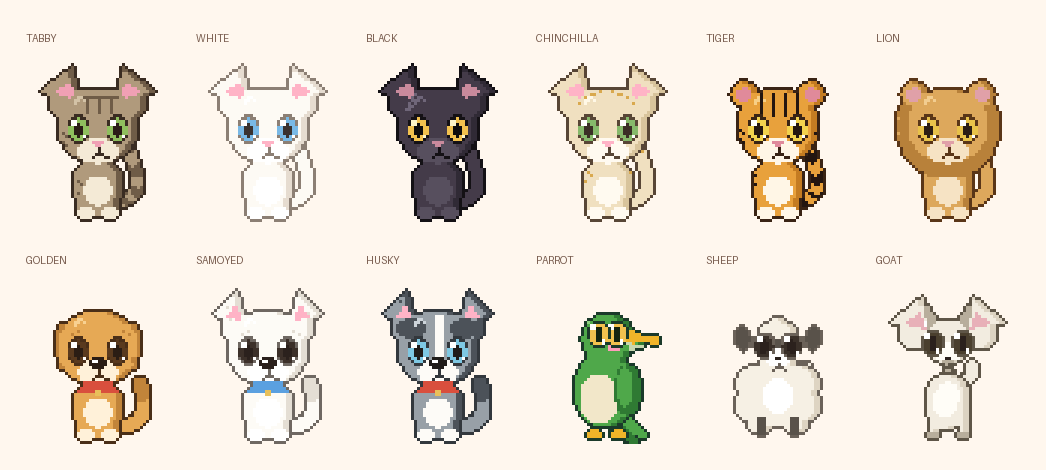
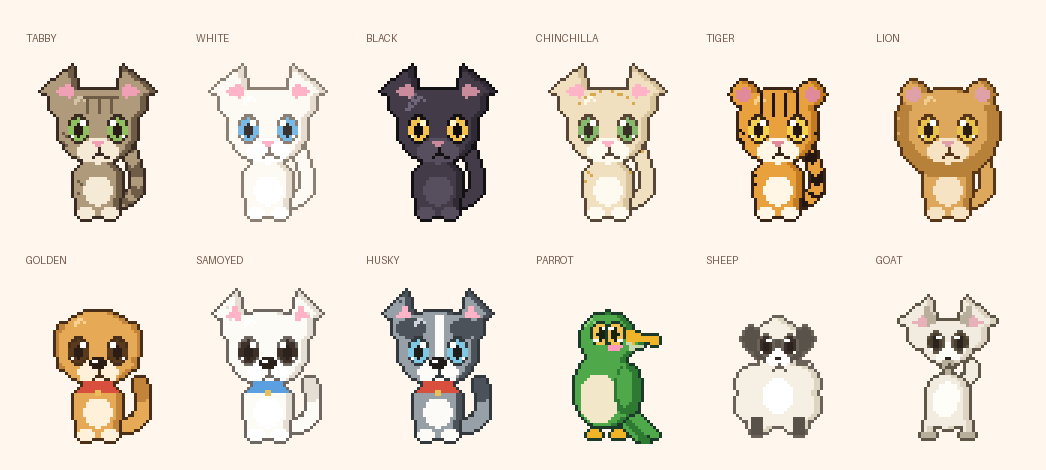
fix(dsh-pet): 眼睛贴回脸上，转身时不再自己滑动
用户反馈"眼睛的动画不匹配"，查到三处：

1. 绵羊 / 山羊 / 鹦鹉脑袋小，眼睛按原来的锚点会顶到轮廓上甚至悬空
   （侧面时最明显）。放大这三种脑袋，眼睛锚点按物种单独排版，
   近侧眼睛在转身时同比缩小，四档表情 × 三档转身现在全部落在
   脸部像素上（新增第 14 条测试卡住这个不变量）。
2. 远景眼睛/耳朵该不该隐藏，看的是被物种系数缩放过的 turn，
   结果绵羊山羊侧面还留着两只眼睛。改成只看原始 turn。
3. .dsp-eyes 有 220ms 的 transform 过渡，转身时 look 归零会让
   眼珠自己滑回中间，和已经转过去的脑袋对不上。转身/拖动时
   关掉这个过渡。

顺手把转身改得不那么急躁：指针靠近才转（62px 先转 45°，
118px 且竖直方向不偏才完全侧身），走远自动转回正面，
近处仍然保留眼珠跟随。

diff --git a/plugins/dsh-pet/client.js b/plugins/dsh-pet/client.js
@@ -231,8 +231,11 @@ function flip(rows) {
 }
 
 /** 转向的几何偏移：所有五官、耳朵、爪子按这个量往朝向一侧挪。 */
-function turnShift(turn) {
-  const t = Math.max(0, Math.min(1, turn));
+// 脑袋小的物种（鸟、羊、山羊）转身幅度要收着，不然五官会滑出脸
+const TURN_FACTOR = { cat: 1, dog: 1, bird: 0.9, sheep: 0.9, goat: 0.9 };
+
+function turnShift(turn, factor = 1) {
+  const t = Math.max(0, Math.min(1, turn)) * factor;
   return {
     t,
     face: t * 4.2, // 口鼻中心
@@ -250,9 +253,10 @@ function turnShift(turn) {
 const LAYOUT = {
   cat: { eyeY: 23, near: 30.5, far: 17.5, scale: 1 },
   dog: { eyeY: 23, near: 30.5, far: 17.5, scale: 1 },
-  bird: { eyeY: 17.2, near: 27.0, far: 21.0, scale: 0.9 },
-  sheep: { eyeY: 21.2, near: 28.6, far: 19.4, scale: 0.82 },
-  goat: { eyeY: 20.2, near: 29.0, far: 19.0, scale: 0.88 },
+  bird: { eyeY: 17.2, near: 26.4, far: 21.6, scale: 0.88 },
+  // 羊和山羊脑袋窄，眼睛得铺开一点、转身时少挪一点，才不会挤成斗鸡眼
+  sheep: { eyeY: 21.0, near: 28.0, far: 20.0, scale: 0.76, eyeNear: 1.4 },
+  goat: { eyeY: 20.0, near: 28.2, far: 19.8, scale: 0.78, eyeNear: 1.4 },
 };
 
 const layoutOf = (breed) => LAYOUT[BREEDS[breed].species] || LAYOUT.cat;
@@ -298,14 +302,15 @@ function ear(g, style, cx, cyIn, dir, scale, t) {
 function drawEars(g, breed, frame) {
   const art = BREEDS[breed];
   if (art.ear === 'none') return;
-  const T = turnShift(frame.turn);
+  const raw = Math.max(0, Math.min(1, frame.turn || 0));
+  const T = turnShift(frame.turn, TURN_FACTOR[BREEDS[breed].species] ?? 1);
   const small = art.species === 'sheep' || art.species === 'goat';
   const cy = small ? 17.4 : 14.6;
   const base = small ? 32.6 : 35.2;
   const nearCx = base + T.nearEar;
   const farCx = 48 - base + T.farEar;
   const flick = frame.ear ? 1 : 0;
-  if (T.t < 0.95) ear(g, art.ear, farCx, cy, -1, T.farScale, flick);
+  if (raw < 0.95) ear(g, art.ear, farCx, cy, -1, T.farScale, flick);
   ear(g, art.ear, nearCx, cy, 1, 1, flick);
 }
 
@@ -313,7 +318,7 @@ function drawEars(g, breed, frame) {
 
 function drawTorso(g, breed, frame) {
   const art = BREEDS[breed];
-  const T = turnShift(frame.turn);
+  const T = turnShift(frame.turn, TURN_FACTOR[BREEDS[breed].species] ?? 1);
   const cx = 24 + T.body;
   const slim = T.t * 1.4;
   const bob = frame.breath ? -1 : 0;
@@ -366,16 +371,16 @@ function drawTorso(g, breed, frame) {
 
 function drawHead(g, breed, frame) {
   const art = BREEDS[breed];
-  const T = turnShift(frame.turn);
+  const T = turnShift(frame.turn, TURN_FACTOR[BREEDS[breed].species] ?? 1);
   const bob = frame.breath ? -1 : 0;
   const cx = 24 + T.t * 1.2;
 
   if (art.species === 'bird') {
-    ellipse(g, cx + T.t * 1.2, 19 + bob, 8.6, 8.4, 'f');
+    ellipse(g, cx + T.t * 1.2, 19 + bob, 9.2, 8.6, 'f');
     return;
   }
   if (art.species === 'sheep') {
-    ellipse(g, cx, 21.0 + bob, 6.6, 6.2, 'n');
+    ellipse(g, cx, 21.0 + bob, 9.0, 6.9, 'n');
     // 头顶一撮羊毛
     for (const [dx, dy, r] of [[-3, -4, 3.2], [3, -4, 3.2], [0, -6, 3.4]]) {
       ellipse(g, cx + dx, 21.0 + dy + bob, r, r, 'f');
@@ -383,7 +388,7 @@ function drawHead(g, breed, frame) {
     return;
   }
   if (art.species === 'goat') {
-    ellipse(g, cx, 20.0 + bob, 7.8, 7.2, 'f');
+    ellipse(g, cx, 20.0 + bob, 8.8, 7.4, 'f');
     return;
   }
   ellipse(g, cx, 22 + bob, 13.5 - T.t * 2.6, 12.4, 'f');
@@ -392,7 +397,7 @@ function drawHead(g, breed, frame) {
 /** 口鼻、胸腹、爪子这些浅色块。 */
 function drawMuzzle(g, breed, frame) {
   const art = BREEDS[breed];
-  const T = turnShift(frame.turn);
+  const T = turnShift(frame.turn, TURN_FACTOR[BREEDS[breed].species] ?? 1);
   const bob = frame.breath ? -1 : 0;
   const cx = 24 + T.face;
 
@@ -443,7 +448,7 @@ function drawMuzzle(g, breed, frame) {
 
 function drawMane(g, breed, frame) {
   if (!BREEDS[breed].mane) return;
-  const T = turnShift(frame.turn);
+  const T = turnShift(frame.turn, TURN_FACTOR[BREEDS[breed].species] ?? 1);
   const cx = 24 + T.t * 1.2;
   const bob = frame.breath ? -1 : 0;
   for (let a = 0; a < 20; a += 1) {
@@ -457,7 +462,7 @@ function drawMane(g, breed, frame) {
 
 function drawHorns(g, breed, frame) {
   if (BREEDS[breed].species !== 'goat') return;
-  const T = turnShift(frame.turn);
+  const T = turnShift(frame.turn, TURN_FACTOR[BREEDS[breed].species] ?? 1);
   const cx = 24 + T.t * 1.2;
   const bob = frame.breath ? -1 : 0;
   // 两只向后上方弯的角
@@ -502,14 +507,16 @@ function drawEyeShape(g, cx, cy, kind, s) {
 
 function eyeGrid(breed, frame) {
   const g = blank();
-  const T = turnShift(frame.turn);
+  const raw = Math.max(0, Math.min(1, frame.turn || 0));
+  const T = turnShift(frame.turn, TURN_FACTOR[BREEDS[breed].species] ?? 1);
   const L = layoutOf(breed);
   const bob = frame.breath ? -1 : 0;
   const kind = frame.eyes || 'open';
   const y = L.eyeY + bob;
-  drawEyeShape(g, L.near + T.eyeNear, y, kind, L.scale);
-  if (T.t < 0.95) {
-    if (T.t === 0) {
+  // 转过身后脑袋收窄，近侧眼睛也略微缩一点，免得顶出轮廓
+  drawEyeShape(g, L.near + T.t * (L.eyeNear ?? 1.8), y, kind, L.scale * (1 - 0.12 * T.t));
+  if (raw < 0.95) {
+    if (raw === 0) {
       // 正面：把近侧那只眼睛整体镜像过去，左右严格对称
       const snapshot = [];
       for (let iy = 0; iy < H; iy += 1) for (let ix = 0; ix < W; ix += 1) {
@@ -528,7 +535,7 @@ function eyeGrid(breed, frame) {
 
 function drawFaceOn(rows, breed, frame) {
   const art = BREEDS[breed];
-  const T = turnShift(frame.turn);
+  const T = turnShift(frame.turn, TURN_FACTOR[BREEDS[breed].species] ?? 1);
   const bob = frame.breath ? -1 : 0;
   const cx = 24 + T.face;
   const tongue = frame.happy || frame.tongue;
@@ -599,7 +606,7 @@ function drawFace(rows, breed, frame) {
 
 function applyPattern(rows, breed, frame) {
   const art = BREEDS[breed];
-  const T = turnShift(frame.turn);
+  const T = turnShift(frame.turn, TURN_FACTOR[BREEDS[breed].species] ?? 1);
   const bob = frame.breath ? -1 : 0;
   const on = (x, y, ch, allowed) => {
     const ix = Math.round(x);
@@ -667,7 +674,7 @@ function applyPattern(rows, breed, frame) {
 
 function tailShape(breed, frame) {
   const art = BREEDS[breed];
-  const T = turnShift(frame.turn);
+  const T = turnShift(frame.turn, TURN_FACTOR[BREEDS[breed].species] ?? 1);
   const g = blank();
   const sway = [-3.0, 0, 3.0, 0][((frame.tail % 4) + 4) % 4];
   const bez = (p0, p1, p2, t) => [
@@ -1110,6 +1117,8 @@ function spriteSpans(rows) {
 .dsp-root.is-zoomies .dsp-figure { animation: dsp-zoom 260ms ease-in-out infinite; }
 .dsp-sprite { display: block; overflow: visible; }
 .dsp-eyes { transition: transform 220ms ease-out; }
+/* 转身时眼睛是跟着脑袋一格一格重画的，别再让它自己滑过去 */
+.dsp-root.is-turned .dsp-eyes, .dsp-root.is-dragging .dsp-eyes { transition: none; }
 .dsp-shadow {
   position: absolute;
   left: 50%;
@@ -1353,7 +1362,6 @@ function spriteSpans(rows) {
           const [picking, setPicking] = React.useState(false);
           const [dragging, setDragging] = React.useState(false);
           const [pointerLook, setPointerLook] = React.useState({ x: 0, y: 0 });
-          const [glance, setGlance] = React.useState(null);
           // 转身：0 正面 → 0.5 侧四十五度 → 1 侧面，中间每一档都真的画出来
           const [pose, setPose] = React.useState({ turn: 0, dir: 1 });
           const poseRef = React.useRef({ turn: 0, dir: 1 });
@@ -1587,16 +1595,22 @@ function spriteSpans(rows) {
               const limit = Math.max(rect.width, rect.height) * 1.8;
               const dx = event.clientX - cx;
               const dy = event.clientY - cy;
-              if (Math.abs(dx) > limit || Math.abs(dy) > limit) return;
+              if (Math.abs(dx) > limit || Math.abs(dy) > limit) {
+                // 指针走远了就转回正面，别再一直扭着头
+                if (targetRef.current.turn !== 0) {
+                  targetRef.current = { turn: 0, dir: poseRef.current.dir };
+                }
+                return;
+              }
               const next = {
                 x: Math.max(-1, Math.min(1, Math.round(dx / 42))),
                 y: Math.max(-1, Math.min(1, Math.round(dy / 42))),
               };
               setPointerLook((prev) => (prev.x === next.x && prev.y === next.y ? prev : next));
-              // 离得够远就侧过身看着指针；近了就转回正面
+              // 指针靠近时：偏一点只转眼珠，偏得多一点侧转，偏到身侧才整个转过去
               const far = Math.abs(dx);
               targetRef.current = {
-                turn: far > 150 ? 1 : far > 56 ? 0.5 : 0,
+                turn: far > 118 && Math.abs(dy) < 96 ? 1 : far > 62 ? 0.5 : 0,
                 dir: dx < 0 ? -1 : 1,
               };
             };
@@ -1770,7 +1784,7 @@ function spriteSpans(rows) {
             dir: pose.dir,
           };
           // 侧过身以后眼睛已经画在朝向上，就不用再额外偏移了
-          const look = dozing || pose.turn > 0 ? { x: 0, y: 0 } : glance || pointerLook;
+          const look = dozing || pose.turn > 0 ? { x: 0, y: 0 } : pointerLook;
           const place = pos || initialPos;
           const below = place.top < 240;
           const toRight = place.left + size.w / 2 > (window.innerWidth || 1024) / 2;
@@ -1789,6 +1803,7 @@ function spriteSpans(rows) {
                   (dragging ? ' is-dragging' : '') +
                   (happy ? ' is-happy' : '') +
                   (zooming ? ' is-zoomies' : '') +
+                  (pose.turn > 0 ? ' is-turned' : '') +
                   (picking ? ' is-picking' : ''),
                 style: {
                   left: place.left + 'px',

diff --git a/plugins/dsh-pet/README.md b/plugins/dsh-pet/README.md
@@ -40,7 +40,7 @@
 - 侧面时脑袋收窄、口鼻往前鼓出轮廓，尾巴摆到身后，躯干也略微收窄，读起来才像"转过去了"；
 - 转身是**一档一档走**的：90ms 走一档，正面 ⇄ 侧转 ⇄ 侧面，共约 180ms；要换边时先转回正面再翻面，不会"啪"地镜像过去。
 
-它会自己转身：指针在它左边/右边够远（>150px）就侧过身盯着指针，近一点只转四十五度，指针回到正面就转回来；拖动时朝向跟着拖动方向走；偶尔东张西望也是侧过身看一眼再转回来。
+它会自己转身：指针靠近时偏一点只转眼珠，偏到 62px 以上先转四十五度，偏到身侧（>118px 且竖直方向不太偏）才整个侧过去；指针走远自动转回正面。拖动时朝向跟着拖动方向走；偶尔东张西望也是侧过身看一眼再转回来。
 
 ## 美术
 
@@ -65,7 +65,8 @@
 | 眨眼 | 睁 → 半闭 → 闭合 → 半闭 → 睁，间隔与闭眼时长按品种 |
 | 抖耳朵 | 耳尖抖一下（猫耳上抬、狗耳下垂） |
 | 东张西望 | 侧过身看一眼再转回来，间隔与停留时长按品种 |
-| 眼睛跟鼠标 | 正面时眼睛朝指针方向偏移，指针在侧面则直接侧身 |
+| 眼睛跟鼠标 | 指针靠近时眼睛朝指针偏移（±1 格）；偏到侧面才换成转身，指针走远自动转回正面 |
+| 眼睛贴脸 | 眼睛是独立图层，画之前要压在身体像素上：`turn` 越大脑袋越窄，近侧眼睛跟着缩一点、远侧眼睛往回收，保证四档表情在每档转身下都不会顶出轮廓 |
 | 转身 | 正面 ⇄ 侧转半档 ⇄ 侧面，90ms 一档；换边先转回正面再镜像 |
 | 打盹 | 金渐层专属：闭眼 + zZ 飘字，被摸会醒 |
 | 发疯 | 哈士奇专属：左右乱窜 1.5s + 台词 |
